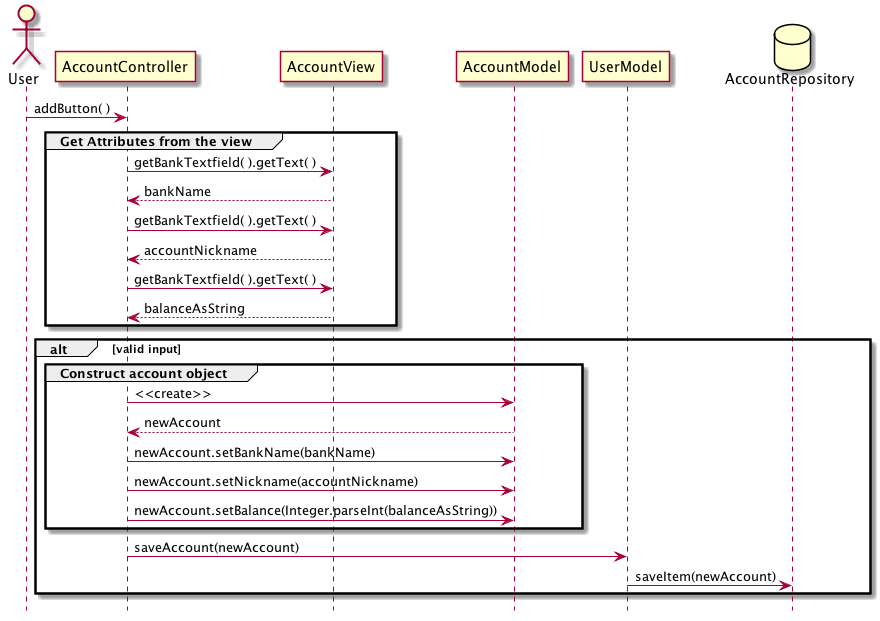
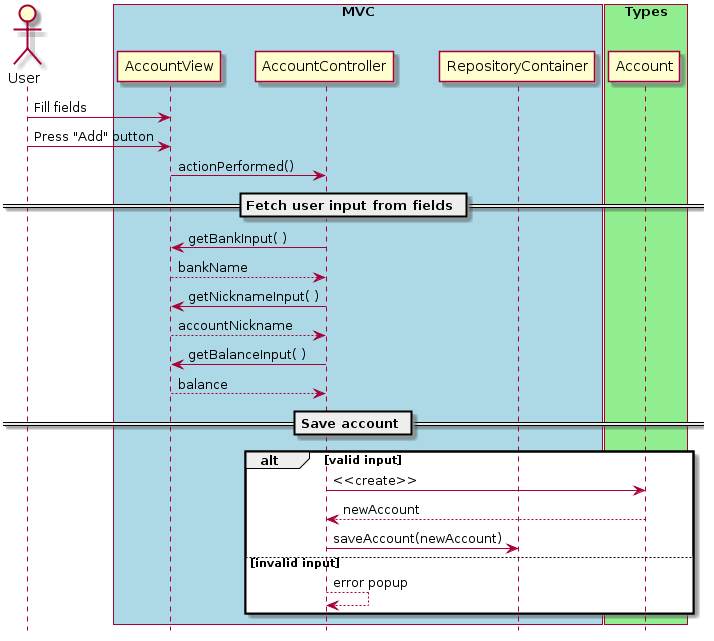
Updated chapter 4 to latest implementation

diff --git a/Documentation/Iteration_2.tex b/Documentation/Iteration_2.tex
@@ -61,7 +61,9 @@ Colin Greczkowski & 40001600 \\
 \clearpage
 
 \tableofcontents
+\clearpage
 
+\listoffigures
 \clearpage
 
 \section{Introduction}
@@ -133,7 +135,7 @@ The callback system uses Java's \code{ActionEvent} class.
 	\item \code{getBankInput()} : Return a string consisting of the content of the BankName field in the GUI.
 	\item \code{getNicknameInput()} : Return a string consisting of the content of the Nickname field in the GUI.
 	\item \code{getBalanceInput()} : Return an Integer consisting of the content of the Balance field in the GUI.
-	\item \code{getAccountId()} : Return a Integer consisting of the id of the account currently selected by the user.
+	\item \code{getSelectedAccountId()} : Return a Integer consisting of the id of the account currently selected by the user.
 	\item \code{setSelection(Integer)} : Overrides the user's current account selection. This method mostly improves user experience (for example, automatically selects a new account when it is created)
 \end{itemize}
 
@@ -149,8 +151,8 @@ The callback system uses Java's \code{ActionEvent} class.
 	\item \code{getDateInput()} : Return a string consisting of the content of the Date field in the GUI.
 	\item \code{getDescriptionInput()} : Return a string consisting of the content of the Description field in the GUI.
 	\item \code{getAmountInput()} : Return an Integer consisting of the content of the Amount field in the GUI.
-	\item \code{getAccountId()} : Return a Integer consisting of the id of the account currently selected by the user.
-	\item \code{getTransactionId()} : Return a Integer consisting of the id of the transaction currently selected by the user.
+	\item \code{getSelectedAccountId()} : Return a Integer consisting of the id of the account currently selected by the user.
+	\item \code{getSelectedTransactionId()} : Return a Integer consisting of the id of the transaction currently selected by the user.
 	\item \code{setSelection(Integer)} : Overrides the user's current transaction selection. This method mostly improves user experience (for example, resetting the current selection when a transaction is deleted)
 \end{itemize}
 
@@ -1072,43 +1074,63 @@ public &isNumeric &boolean &Check if a string is numeric
 \end{center}
 
 \section{Dynamic Design Scenarios}
-To illustrate the interactions between the difference classes of our system, we have drawn sequence diagrams for the main features of our program. For simplicity, the repositories are the lowest layer of abstraction in the diagrams. We have also included a sequence diagram of the AccountRespository saving an account to the database using the Database class (Figure 2).
+To illustrate the interactions between the difference classes of our system, we have drawn sequence diagrams for the main features of our program. For simplicity, the model interface is the lowest layer of abstraction in these diagrams. The final section illustrates the internal structure of the model to complement the higher level diagrams.
 
 \newpage
-\subsection{Adding an account}
-The first scenario illustrates the addition of an account to the system. The user completes the required text fields and presses the "add" button, which triggers the addButton method from the AccountController. The controller then gathers and validates the inputs. If they are valid, the controller initializes an AccountModel object and constructs it using setters. Finally, the object is saved by calling the UserModel's saveAccount method, which in turn calls its AccountRepository's saveItem method.
+\subsection{Add an account} \label{sec:addAccount}
+The first scenario illustrates the addition of an account to the system. The user completes the required text fields and presses the "Add" button, which sends an \code{ActionEvent} the \code{AccountController}. The controller then gathers and validates the inputs. If they are valid, the controller constructs an \code{Account} object and initializes it using the info gathered from the view. Finally, the object is saved by calling the model's \code{saveAccount()} method. See \ref{sec:modelSaveDetail} for the sequence diagram from the model's perspective once the call to \code{saveAccount()} is made. The sequence of calls for adding a \code{Transaction} is fundamentally the same.\\
+\\
 \includegraphics[width=\textwidth,height=\textheight,keepaspectratio]{diagrams/sequence/addAccount.png}
 \captionof{figure}{Adding an account}
+\bigskip
+
+\subsection{Update an account}
+Updating and existing \code{Account} is very similar to creating a new one. The one difference is that the user must first select an entry from the view. The fields will then update to show the selected \code{Account}'s information. The user can then modify the fields as desired and press the "Update" button when ready. The flow is then identical to \ref{sec:addAccount}, with the exception that the \code{AccountController} will set the created \code{Account} object's id from the one selected by the user. Again, the sequence of calls for updating a \code{Transaction} is fundamentally the same.\\
+\\
+\includegraphics[width=\textwidth,height=\textheight,keepaspectratio]{diagrams/sequence/updateAccount.png}
+\captionof{figure}{Updating an account}
+\bigskip
+
+\subsection{Delete an account}
+To delete an account, the user selects an entry in the \code{AccountView}'s table and clicks the "Delete" button. This sends an \code{ActionEvent} to the \code{AccountController}. The registered listener for this event then calls the \code{deleteAccount()} on the model. \code{Transaction} deletion is handled similarly.\\
+\\
+\includegraphics[width=\textwidth,height=\textheight,keepaspectratio]{diagrams/sequence/deleteAccount.png}
+\captionof{figure}{Deleting an account}
+\bigskip
 
 \newpage
-\subsubsection{AccountRepository saving an account to the database}
-When an account is added to the system, the following sequence of events occur. After the saveItem method is called, the AccountRepository creates an SQLValueMap (linked HashMap with keys and values of type String) to store the column-value mapping. \\
+\subsection{Import a transaction list}
+In this scenario, the users imports a list of transactions from a .csv file and adds them to the model. When the user clicks the "Import" button, the \code{TransactionController} creates a window with a dialog box. The user then inputs the file path of the transaction csv file. If the file path is valid, both the file path and the currently selected accountId is passed to the model with a call to \code{importTransactions()}. For details on how the model then handles the import, see \ref{sec:modelImportDetail}.\\
+\\
+\includegraphics[width=\textwidth,height=\textheight,keepaspectratio]{diagrams/sequence/importHighLevel.png}
+\captionof{figure}{Import a list of transactions from .csv file}
+\bigskip
 
-If the account is new (does not exist in the system), then the repository uses the SQLStringFactory to build an insert query using the SQLValueMap. It executes the query using updateSQL from the Database class. The repository then updates the account's ID using the accountId value returned from updateSQL and proceeds to add the new account to the repository's AccountMap.\\
+\subsection{Model implementation details}
+The next subsections offer a glimpse into the internal logic of the model and how it implements the methods of its interface.
 
-If the account already exists, then the repository will construct a SQLValueMap for the where clause of the query using the account's ID. SQLStringFactory's is then used to generate an update query, which will be executed by calling the Database class's updateSQL method. The returned accountId is unused. 
+\subsubsection{saveAccount()} \label{sec:modelSaveDetail}
+The \code{saveAccount(Account)} method provides a simple interface for adding new \code{Account} objects or updating existing ones. When the specified \code{Account} object's \code{accountId} member variable is 0, it is assumed that this is a new entry. Otherwise the call is treated as an update. \\ 
 
-\includegraphics[width=\textwidth,height=\textheight,keepaspectratio]{diagrams/sequence/accRepoSaveItem.png}
-\captionof{figure}{AccountRepository saving an account to the database}
+After the \code{saveItem()} method is called, the \code{AccountRepository} creates an \code{SQLValueMap} object (linked HashMap with keys and values of type String) to store the column-value mapping. \\
 
-\subsection{Adding a transaction}
-In this scenario, the user adds a transaction to their account. After the user completes the text fields and presses the "add" button, the addButton method from the TransactionController is triggered. The controller gathers and validates the inputs. If the inputs are valid, the controller initializes an TransactionModel object and constructs it using setters. The controller then gets the AccountModel object from the UserModel, and uses its saveTransaction method. The AccountModel then calls its TransactionRepository's saveItem method.
-\includegraphics[width=\textwidth,height=\textheight,keepaspectratio]{diagrams/sequence/addTransaction.png}
-\captionof{figure}{Adding a transaction}
+If the account is new, then the repository uses the \code{SQLStringFactory} class to build a \code{String} insert query using the (key,value) pairs in the \code{SQLValueMap}. It executes the query by calling \code{updateSQL} from the Database class. The repository then updates the account's ID using the accountId value returned from updateSQL and proceeds to add the new account to the repository's \code{AccountMap}.\\
 
-\subsection{Importing a transaction}
-In this scenario, the users imports a transaction and adds it to their account. When the user clicks the "import button", the TransactionController creates a window with a dialog box. The user then inputs the file path of the transaction csv file. The controller then gets the AccountTransactionRepository from the AccountModel. Using the AccountTransactionRepository, it creates an instance of ImportTransaction and calls its importTransaction method using the file path obtained from the user.
+If the account already exists, then the repository will construct a \code{SQLValueMap} for the where clause of the query using the account's ID. \code{SQLStringFactory} is then used to generate an update query, which will be executed by calling the \code{Database} class's \code{updateSQL} method. The returned accountId is unused. \\
+\\
+\includegraphics[width=\textwidth,height=\textheight,keepaspectratio]{diagrams/sequence/addAccountImp.png}
+\captionof{figure}{Model - Saving an account}
+\bigskip
 
-\includegraphics[width=\textwidth,height=\textheight,keepaspectratio]{diagrams/sequence/importTransaction.png}
-\captionof{figure}{Importing a transaction}
+\newpage
+\subsubsection{importTransactions()} \label{sec:modelImportDetail}
+The \code{importTransaction()} method first creates a \code{BufferedReader} using the file path. Then, it iterates over the file, line by line, using the \code{BufferedReader}'s \code{readLine()} method. \\
 
-The importTransaction method first creates a BufferedReader using the file path. Then, it iterates over the file, line by line, using the BufferedReader's readLine method. \\
-
-The line is split into tokens using Java.lang.String's split method. Using the array of token from the split method, a transaction object is constructred. The transaction object is then saved using the AccountTransactionRepository's saveItem method.
-
-\includegraphics[width=\textwidth,height=\textheight,keepaspectratio]{diagrams/sequence/importTransaction2.png}
-\captionof{figure}{Importing a transaction (cont.)}
-
+The line is split into tokens using the \code{split()} method. Using the returned array of tokens, a \code{Transaction} object is constructed. The model then saves the new\code{Transaction} object by calling its own \code{saveTransaction()} method.\\
+\\
+\includegraphics[width=\textwidth,height=\textheight,keepaspectratio]{diagrams/sequence/importLowLevel.png}
+\captionof{figure}{Model - Import list of transactions from .csv file}
+\bigskip
 
 
 \end{document}
